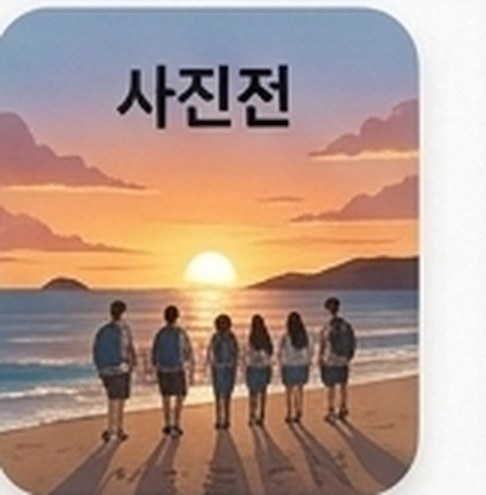
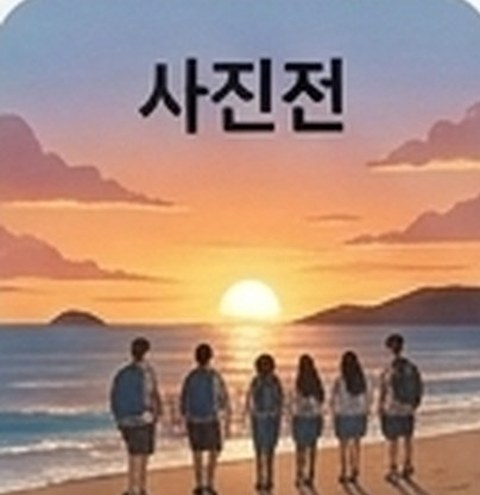
홈 포스터를 시안처럼 — 하늘에 진한 제목, 그림을 코스 카드 밑까지 길게 + 사진전 타일 흰 띠 제거

diff --git a/walk/index.html b/walk/index.html
@@ -207,16 +207,21 @@
   .pane{padding:0 20px 28px;display:flex;flex-direction:column;gap:18px}
   .pane[hidden]{display:none}
 
-  .hero{position:relative;margin:0 -20px 2px}
-  .hero img{width:100%;display:block;aspect-ratio:504/269;object-fit:cover;background:#1E293B}
-  .hero .sh{position:absolute;inset:0;
-    background:linear-gradient(180deg,rgba(2,6,23,.78) 0%,rgba(2,6,23,.18) 40%,rgba(2,6,23,.04) 72%,var(--bg) 100%)}
-  .hero .tx{position:absolute;left:20px;right:20px;top:calc(16px + var(--safe-t));text-align:center}
-  .hero .ed{font-size:15px;font-weight:900;color:#BAE6FD;letter-spacing:.02em}
-  .hero h1{font-size:30px;font-weight:900;color:#fff;letter-spacing:-.04em;margin-top:2px;
-    text-shadow:0 2px 14px rgba(2,6,23,.85)}
-  .hero .sl{font-size:14px;font-weight:800;line-height:1.6;color:#E2E8F0;margin-top:8px;
-    text-shadow:0 2px 10px rgba(2,6,23,.9)}
+  /* 첫 화면 포스터 — 시안처럼 «하늘에 진한 제목 → 그림이 길게 내려와 코스 카드 밑까지»
+     그림 위쪽은 하늘색으로 녹이고, 아래쪽은 코스 카드가 올라앉는다. */
+  .hero{position:relative;margin:0 -20px 2px;display:flex;flex-direction:column;
+    background:linear-gradient(180deg,#C9E2F1 0%,#E3EFF4 55%,#F7F8F2 100%);
+    padding-top:calc(26px + var(--safe-t))}
+  .hero img{width:100%;display:block;aspect-ratio:4/3.3;object-fit:cover;object-position:38% 100%;
+    margin-top:-34px;
+    -webkit-mask-image:linear-gradient(180deg,transparent 0%,#000 16%,#000 86%,transparent 100%);
+            mask-image:linear-gradient(180deg,transparent 0%,#000 16%,#000 86%,transparent 100%)}
+  .hero .sh{display:none}
+  .hero .tx{order:-1;position:relative;z-index:1;padding:0 20px;text-align:center}
+  .hero .ed{font-size:17px;font-weight:700;color:#334155;letter-spacing:.01em}
+  .hero h1{font-size:33px;font-weight:900;color:#0F172A;letter-spacing:-.04em;margin-top:2px}
+  .hero .sl{font-size:16px;font-weight:700;line-height:1.55;color:#1E293B;margin-top:10px}
+  .hero + .picks{position:relative;z-index:2;margin-top:-78px}
 
   /* 공모전 미리보기 — 그림처럼 썸네일 버튼 3개 */
   .trow{font-size:14px;font-weight:900;color:var(--sub);margin:4px 0 -8px 4px}

diff --git a/walk/sw.js b/walk/sw.js
@@ -7,7 +7,7 @@
      · 내 파일(코스·사진·화면)  → 저장해 둔 것을 «먼저» 주고, 뒤에서 조용히 갱신
      · 카카오 지도 타일         → 저장하지 않는다(약관·용량). 신호 없으면 지도만 안 보인다
    ══════════════════════════════════════════════════════════════ */
-const V = 'kkumgil-v6';
+const V = 'kkumgil-v7';
 const CORE = ['./', './index.html', './courses.json', './course-day1.json', './course-day2.json',
               './manifest.json', './icon-192.png', './icon-512.png', './stamps.json',
               './hero.jpg', './t-poem.jpg', './t-catch.jpg', './t-shirt.jpg',
